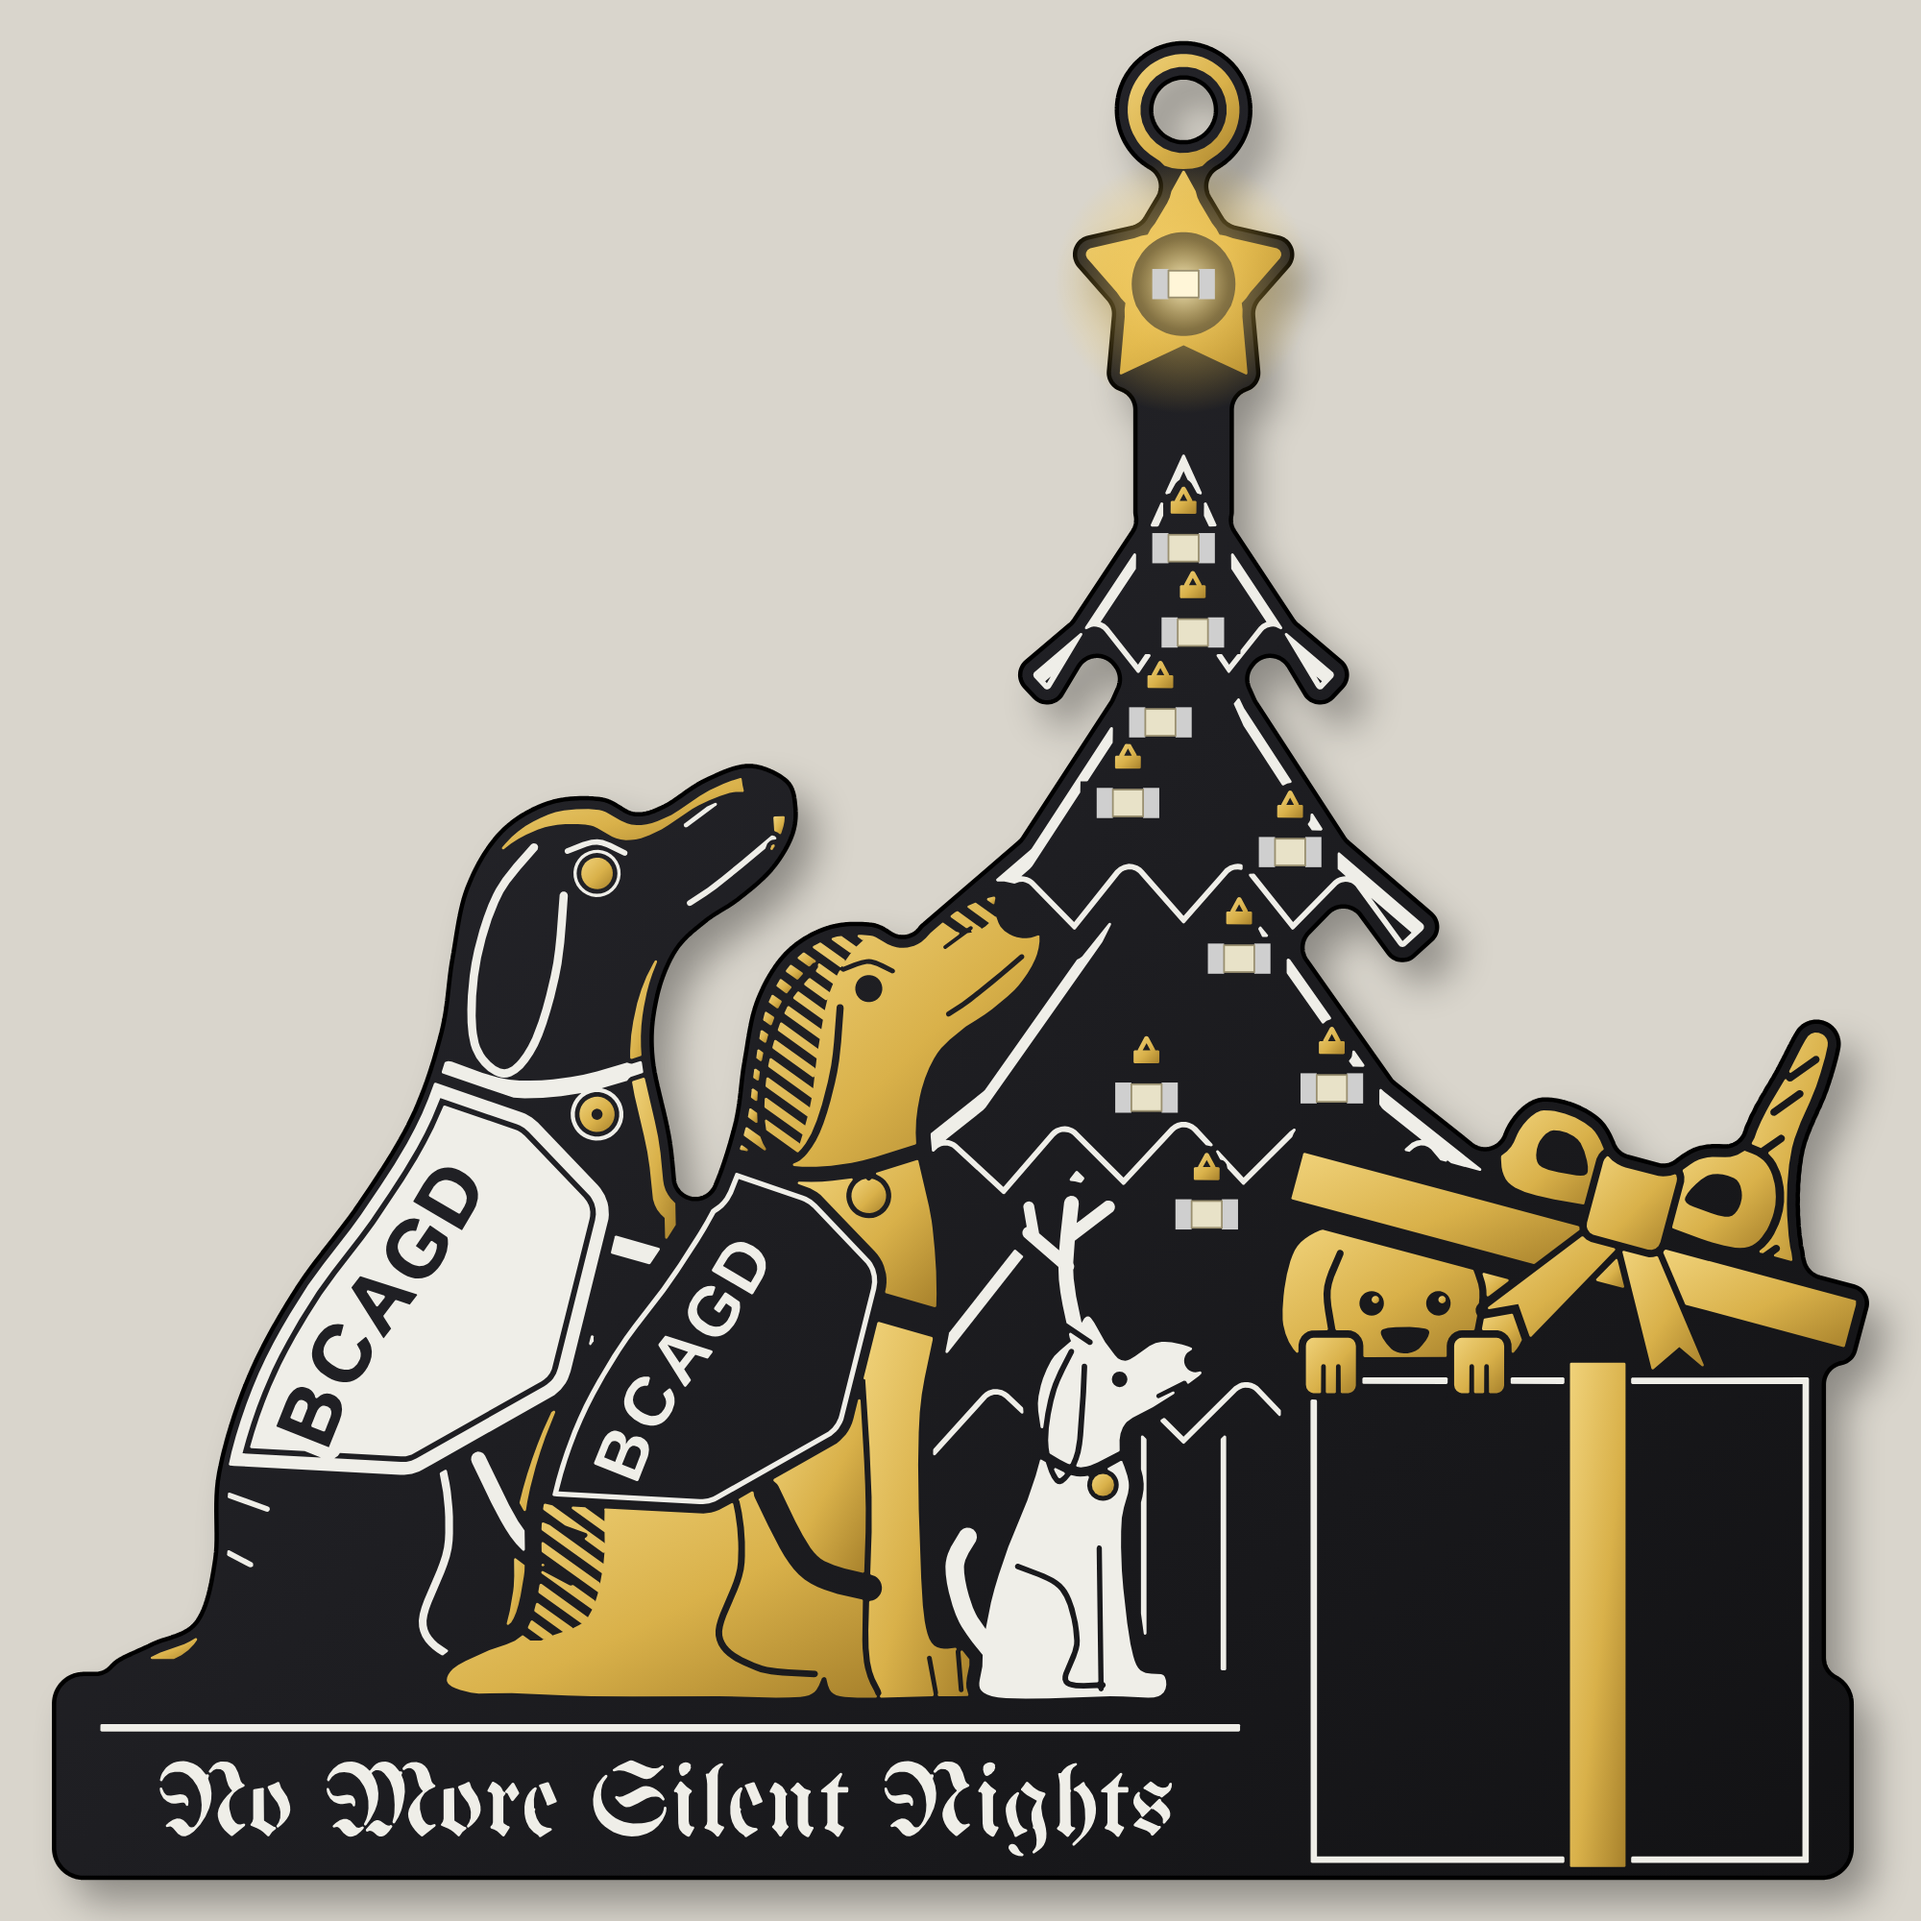
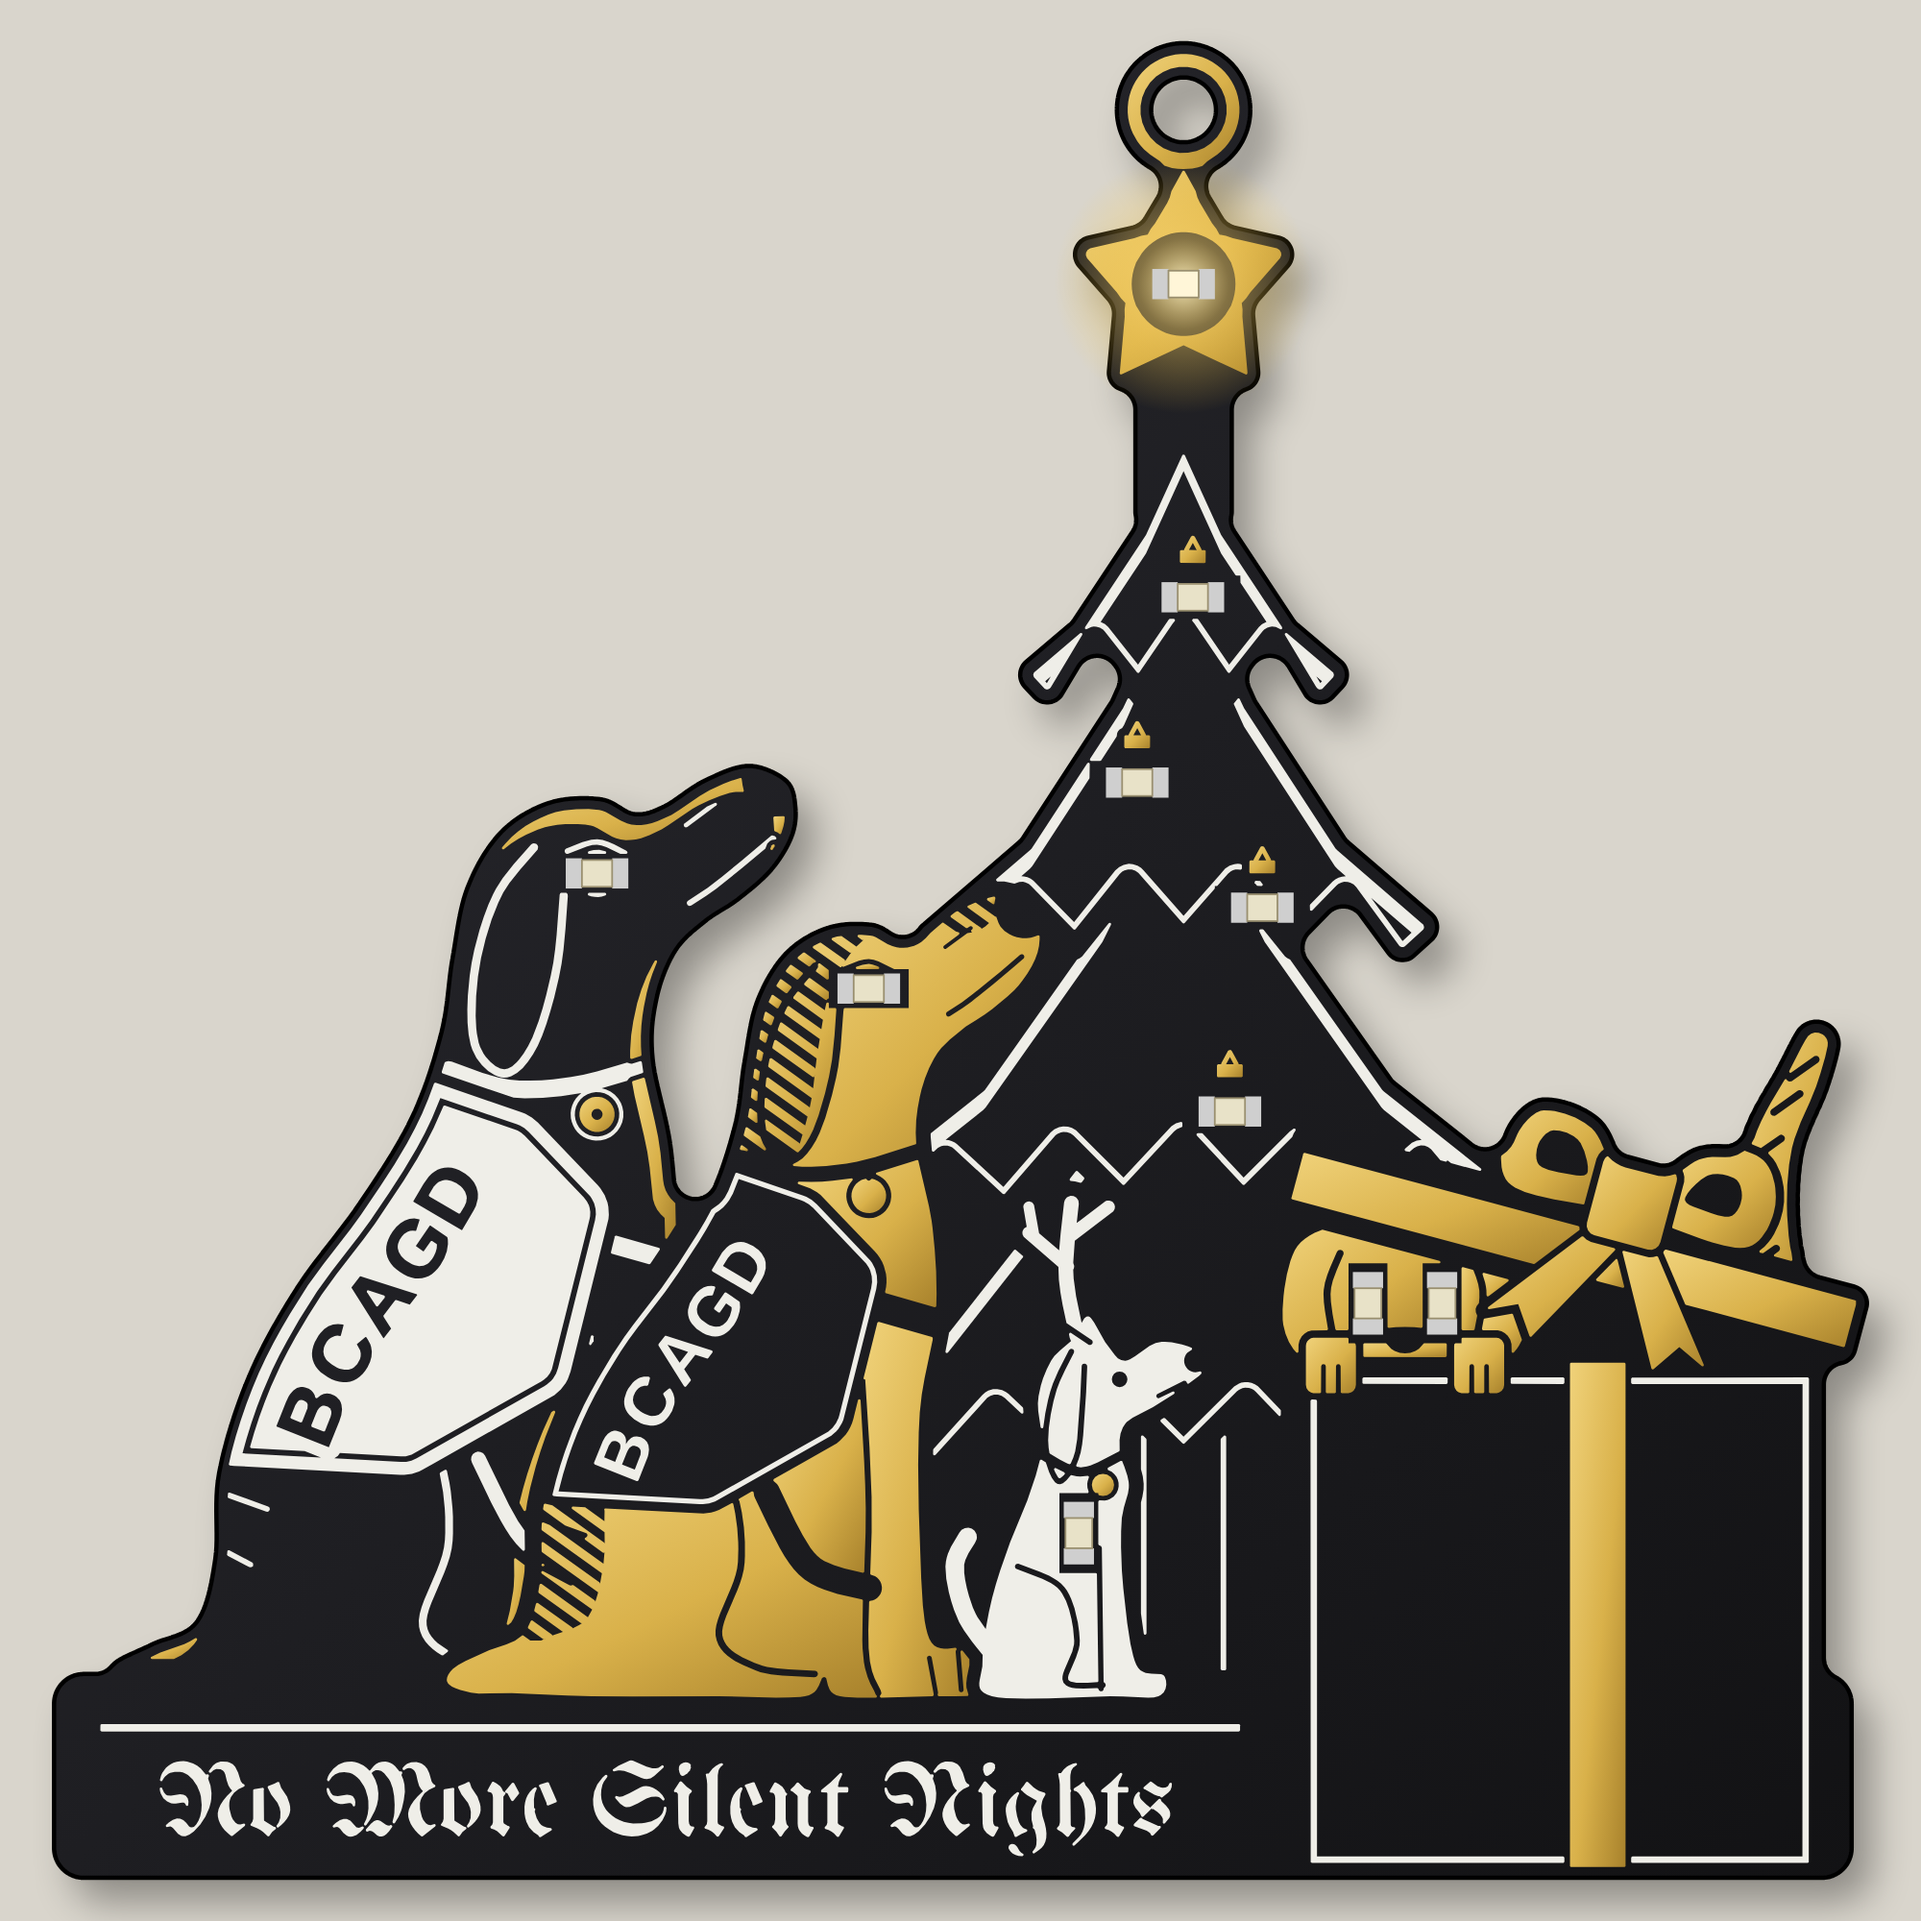
Move the ten LEDs to the tree, star, dogs and puppy eyes
Four on the tree, one in the star, one on each of the three dogs and
one for each of the puppy's eyes.

Claude-Session: https://claude.ai/code/session_01LWeVxTjGJUc5PEY3V1Ku58

diff --git a/pcb-art/labrador-ornament/source/build_ornament.py b/pcb-art/labrador-ornament/source/build_ornament.py
@@ -363,7 +363,7 @@ def _valid(x, y, placed):
         return False
     return all(abs(x - px) > 5.4 / S or abs(y - py) > 3.6 / S for px, py in placed)
 LEDS = []
-for dx, y in [(2.0, 63.8), (8.5, 57.0), (-2.0, 57.5), (3.0, 50.0), (6.0, 44.0), (-3.0, 41.6), (-1.5, 37.0), (0.5, 32.4), (0.0, 27.6)]:
+for dx, y in [(3.5, 58.5), (6.5, 48.5), (-2.5, 40.5), (0.5, 30.5)]:      # four on the tree, bottom to top
     best = None
     for i in range(-16, 17):
         for j in range(-12, 13):
@@ -374,10 +374,21 @@ for dx, y in [(2.0, 63.8), (8.5, 57.0), (-2.0, 57.5), (3.0, 50.0), (6.0, 44.0), 
     if best is None:
         print("LED NO ROOM", dx, y); best = (0, TX + dx, y)
     LEDS.append((round(best[1], 2), round(best[2], 2)))
-LEDS.append(STAR_C)
-led_keep = unary_union([box(x - 2.2 / S, y - 1.0 / S, x + 2.2 / S, y + 1.0 / S) for x, y in LEDS])
-for x, y in LEDS:
-    if not safe_cu.contains(box(x - 1.5 / S, y - 0.75 / S, x + 1.5 / S, y + 0.75 / S)): print("LED OFF BOARD", x, y)
+N_TREE = len(LEDS)
+LEDS.append(STAR_C)                                              # D5: the star
+_pp = lambda p, kw: place(Point(p), **kw).coords[0]
+LEDS.append(_pp((37.4, 45.4), B))                                # D6: black Lab's eye
+LEDS.append(_pp((37.4, 45.4), Y))                                # D7: yellow Lab's eye
+LEDS.append(wl([(7.3, 13.2)])[0])                                # D8: white dog, on its chest like a glowing bell
+LEDS.append((HX - 2.0, HY - 0.3)); LEDS.append((HX + 2.0, HY - 0.3))   # D9, D10: the puppy's eyes
+LED_ROT = [0] * N_TREE + [0, 0, 0, 90, 90, 90]
+LED_NAME = ["tree"] * N_TREE + ["star", "black Lab eye", "yellow Lab eye", "white dog chest", "puppy left eye", "puppy right eye"]
+def _lbox(x, y, rot, hx, hy):
+    return box(x - hx, y - hy, x + hx, y + hy) if rot == 0 else box(x - hy, y - hx, x + hy, y + hx)
+# clear area per LED: generous on the tree, tight on the dogs so the faces survive
+led_keep = unary_union([_lbox(x, y, r, (2.2 if i <= N_TREE else 1.85) / S, (1.0 if i <= N_TREE else 0.9) / S) for i, ((x, y), r) in enumerate(zip(LEDS, LED_ROT))])
+for (x, y), r in zip(LEDS, LED_ROT):
+    if not safe_cu.contains(_lbox(x, y, r, 1.5 / S, 0.75 / S)): print("LED OFF BOARD", x, y)
 led_outline = unary_union([box(x - 1.0, y - 0.625, x + 1.0, y + 0.625).exterior.buffer(0.05) for x, y in LEDS])
 
 # ---- YELLOW DOG: gold, with engraved black details and a hatched shadow down its back
@@ -433,7 +444,7 @@ for p in tier_polys:                         # top tier first
     cover = cover.union(p.buffer(0.5))
 tree_silk = unary_union(tl + [tree_lines[-1].difference(cover)])
 # small gold bauble cap above each tree LED
-bauble_gold = unary_union([unary_union([box(x - 0.7, y - 2.55, x + 0.7, y - 1.85), stroke([(x - 0.35, y - 2.55), (x, y - 3.2), (x + 0.35, y - 2.55)], 0.25, smooth=False)]) for x, y in LEDS[:9]])
+bauble_gold = unary_union([unary_union([box(x - 0.7, y - 2.55, x + 0.7, y - 1.85), stroke([(x - 0.35, y - 2.55), (x, y - 3.2), (x + 0.35, y - 2.55)], 0.25, smooth=False)]) for x, y in LEDS[:N_TREE]])
 
 # ---- STAR + eyelet: gold
 star_gold = star(*STAR_C, 6.2, 3.3).difference(circle(*STAR_C, 2.8))
@@ -515,7 +526,7 @@ outline, hole, copper, gold_open, sil_all = fin(outline), fin(hole), fin(copper)
 LEDS = [finp(p) for p in LEDS]
 BAT_C, HOLE_C = finp(BAT_C), finp(HOLE_C)
 cx, cy = finp((cx, cy))
-led_outline = unary_union([box(x - 1.0, y - 0.625, x + 1.0, y + 0.625).exterior.buffer(0.05) for x, y in LEDS])
+led_outline = unary_union([_lbox(x, y, r, 1.0, 0.625).exterior.buffer(0.05) for (x, y), r in zip(LEDS, LED_ROT)])
 bat_guide = ring(*BAT_C, 10.0, 0.1).union(LineString([(BAT_C[0] - 2, BAT_C[1]), (BAT_C[0] + 2, BAT_C[1])]).buffer(0.05)).union(LineString([(BAT_C[0], BAT_C[1] - 2), (BAT_C[0], BAT_C[1] + 2)]).buffer(0.05))
 print("FINAL bounds", [round(v, 2) for v in outline.bounds], "hole", [round(v, 2) for v in HOLE_C], "com", round(cx, 2), round(cy, 2))
 # manufacturability at final size: thinnest features
@@ -552,7 +563,7 @@ write("05_User.Drawings_LED_guide.svg", "User.Drawings: 10 LED positions (0805 o
 with open(os.path.join(OUT, "_leds.txt"), "w") as f:
     f.write("# ref, x_mm, y_mm, rotation_deg (F.Cu, origin = top-left of the 85 x 85 mm box)\n")
     for i, (x, y) in enumerate(LEDS):
-        f.write(f"D{i+1}, {x:.2f}, {y:.2f}, 0\n")
+        f.write(f"D{i+1}, {x:.2f}, {y:.2f}, {LED_ROT[i]}   # {LED_NAME[i]}\n")
     f.write(f"BT1 (CR2032 holder centre, B.Cu), {BAT_C[0]:.2f}, {BAT_C[1]:.2f}, 0\n")
     f.write(f"# hanging hole {HOLE_C[0]:.2f}, {HOLE_C[1]:.2f}; centre of mass with battery {cx:.2f}, {cy:.2f}\n")
 
@@ -564,13 +575,16 @@ def colored(g, c):
         out.append(f'<path d="{dd}" fill="{c}" fill-rule="evenodd"/>')
     return "\n".join(out)
 board_d = ring_d(outline.exterior.coords) + " " + ring_d(hole.exterior.coords)
-def led_svg(x, y, on):
+def led_svg(x, y, on, rot=0):
+    return f'<g transform="rotate({rot} {x} {y})">' + _led_svg(x, y, on) + '</g>'
+def _led_svg(x, y, on):
     g = f'<circle cx="{x}" cy="{y}" r="6" fill="url(#ledglow)"/>' if on else ""
+    if on and y > 20: g = g.replace('r="6"', 'r="4"')
     g += f'<rect x="{x-1.45}" y="{y-0.7}" width="0.75" height="1.4" fill="#cfcfcf"/><rect x="{x+0.7}" y="{y-0.7}" width="0.75" height="1.4" fill="#cfcfcf"/>'
     g += f'<rect x="{x-0.7}" y="{y-0.62}" width="1.4" height="1.24" fill="{"#fff6d8" if on else "#e8e2c8"}" stroke="#9a9070" stroke-width="0.08"/>'
     return g
 def preview(lit, name):
-    body = "".join(led_svg(x, y, i in lit) for i, (x, y) in enumerate(LEDS))
+    body = "".join(led_svg(x, y, i in lit, LED_ROT[i]) for i, (x, y) in enumerate(LEDS))
     with open(os.path.join(OUT, name), "w") as f:
         f.write(f'''<svg xmlns="http://www.w3.org/2000/svg" width="1000" height="1000" viewBox="-2 -2 89 89">
 <defs>
@@ -587,5 +601,6 @@ def preview(lit, name):
 {body}
 </svg>''')
 preview([], "preview.svg")
-preview([9], "preview_lit.svg")
+preview([N_TREE], "preview_lit.svg")
+preview(range(len(LEDS)), "preview_all_lit.svg")
 print("ok", len(no_holes(copper)), len(no_holes(gold_open)), len(no_holes(sil_all)))

diff --git a/pcb-art/labrador-ornament/README.md b/pcb-art/labrador-ornament/README.md
@@ -32,8 +32,20 @@ These are estimates. Weigh your actual holder: every 1 g of difference in the ba
 
 ## LEDs and power (from smt_tree.kicad_sch)
 The circuit is an NE555 clocking a CD4017 at roughly 3.6 Hz, one 0805 LED per output through 330 Ω.
-- **D1 to D9** climb the visible part of the tree, and **D10** is in the centre of the star. `_leds.txt` has every XY position, plus the battery holder centre.
-- Each LED has a 4.4 x 2.0 mm clear area with no silkscreen and no art copper.
+- The ten LEDs are spread over the scene. `_leds.txt` has every XY position and rotation, plus the battery holder centre.
+
+| LED | Where | Rotation |
+|---|---|---|
+| D1 to D4 | Tree baubles, bottom to top | 0° |
+| D5 | Centre of the star | 0° |
+| D6 | Black Lab's eye | 0° |
+| D7 | Yellow Lab's eye | 0° |
+| D8 | White dog's chest, like a glowing bell | 90° |
+| D9, D10 | The puppy's two eyes | 90° |
+
+- The 4017 lights one LED at a time. Wired to Q0..Q9 in this order, the light climbs the tree to the star, visits each dog, then the puppy winks one eye after the other. To make both puppy eyes light together you would have to drive D9 and D10 from one output, which frees one output.
+- Tree and star LEDs have a 4.4 x 2.0 mm clear area. The LEDs on the dogs have a tighter 3.7 x 1.8 mm clear area so the faces survive, which means their vias need to sit close to the pads or in them.
+- The puppy's eyes are only 3.4 mm apart, so D9 and D10 stand upright side by side. 0805 parts fit, but they cover most of the puppy's face. 0603 LEDs on those two positions would look better.
 - **Running from a CR2032 (3 V) needs changes to the schematic.** A standard NE555 needs at least 4.5 V, so swap it for a CMOS 555 such as TLC555 or LMC555 (same SOIC-8 footprint). Blue and white LEDs will be dim or dark at 3 V through 330 Ω, so use red, amber or yellow-green, or lower the resistors. The USB-C connector and its 5k1 resistors are no longer needed.
 - Use a surface-mount holder on B.Cu, so no pins come through the present on the front. The present is 24.5 x 24.5 mm, so pick a compact holder and check its footprint fits. Its pads can extend left onto the ground strip.
 
@@ -54,5 +66,5 @@ There is no F.Paste art layer, because paste on the art would put solder on the 
 - Matte **black** mask, **white** silkscreen, **ENIG** finish, 1.6 mm FR4. A different board thickness changes the balance.
 
 ## Files
-- `preview.png` shows the board unlit. `preview_lit.png` shows the star LED (D10) on.
+- `preview.png` shows the board unlit. `preview_lit.png` shows the star LED (D5) on. `preview_all_lit.png` shows all ten positions lit at once, which the real circuit never does.
 - `source/build_ornament.py` regenerates every layer and prints the balance (Python 3 with shapely and fonttools). It needs the OFL font UnifrakturMaguntia saved as `source/fonts/frak.ttf`.
